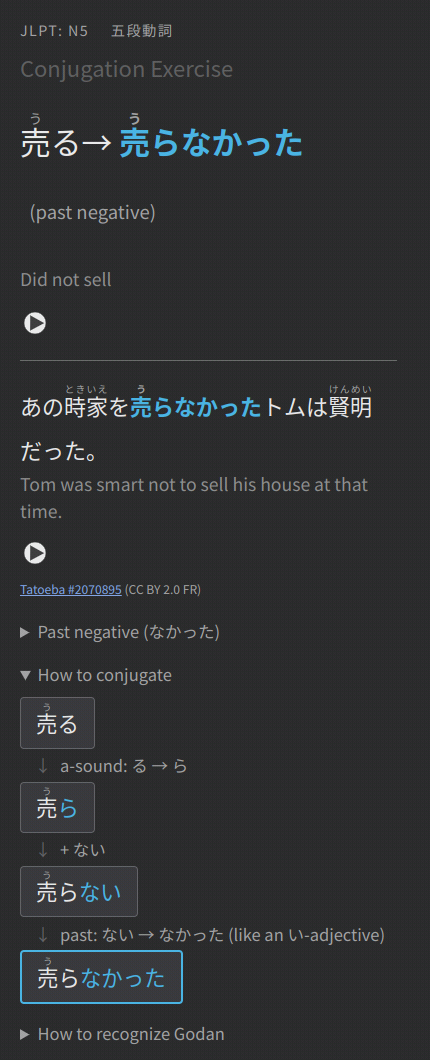
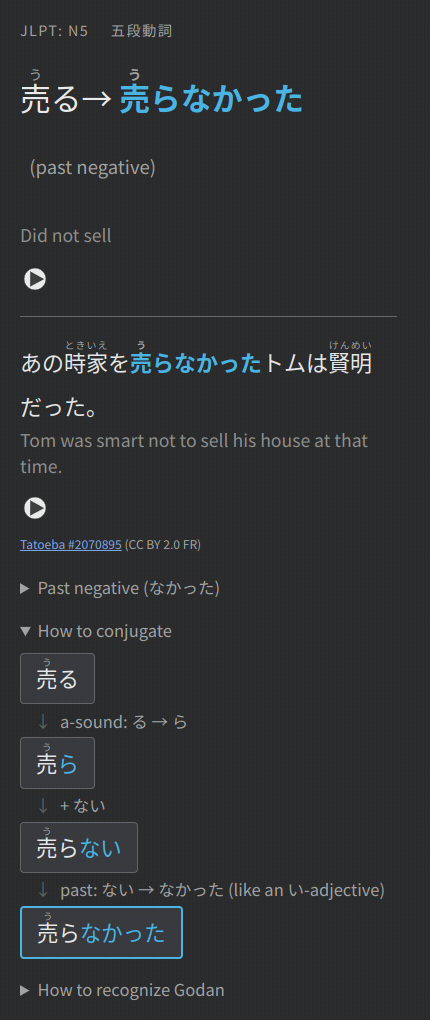
removed instruction field

Changed region(s): [[0.0302, 0.0, 0.907, 1.0], [0.0907, 0.0, 0.1209, 0.0304], [0.0302, 0.9422, 0.0605, 0.9725]]

diff --git a/templates/front.html b/templates/front.html
@@ -1,45 +1,45 @@
 <div class="header">
   <div class="jlpt">{{#JLPT}}JLPT: N{{JLPT}}{{/JLPT}}</div>
 </div>
-<div class="instruction">{{Instruction}}</div>
-<div class="sentence"><span id="sm" style="visibility:hidden">{{Sentence}}</span>{{#SentenceMod}}<span class="modifier">({{SentenceMod}})</span>{{/SentenceMod}}</div>
+<div class="sentence"><span id="sm" style="visibility:hidden">{{Sentence}}</span>{{#SentenceMod}}<span
+    class="modifier">({{SentenceMod}})</span>{{/SentenceMod}}</div>
 {{#Translation}}<div class="translation">{{Translation}}</div>{{/Translation}}
 
 <script>
-(function () {
-  // Front: every #answer# in the Sentence becomes an underlined blank as wide
-  // as the answer itself (the text is there but transparent, see style.css).
-  var SHOW = false;
-  var el = document.getElementById("sm");
-  if (!el) return;
+  (function () {
+    // Front: every #answer# in the Sentence becomes an underlined blank as wide
+    // as the answer itself (the text is there but transparent, see style.css).
+    var SHOW = false;
+    var el = document.getElementById("sm");
+    if (!el) return;
 
-  // The front renders the real answer too, just invisible, so both sides
-  // have the same widths and line breaks (a row of spaces wraps differently).
-  // A plain space before an opening # only separates furigana; drop it.
-  var src = el.innerHTML.replace(/ #(?=[一-鿿々〆])/g, "#");
-  var parts = src.split(/(<[^>]*>)/); // "#" inside tags (e.g. color="#333") is not a marker
-  var out = "", hidden = false, empty = true;
-  for (var i = 0; i < parts.length; i++) {
-    var p = parts[i];
-    if (i % 2) { out += p; continue; }
-    var segs = p.split("#");
-    for (var k = 0; k < segs.length; k++) {
-      if (k) {
-        if (hidden && empty && !SHOW) out += '<b class="target gap">　</b>';
-        hidden = !hidden;
-        empty = true;
+    // The front renders the real answer too, just invisible, so both sides
+    // have the same widths and line breaks (a row of spaces wraps differently).
+    // A plain space before an opening # only separates furigana; drop it.
+    var src = el.innerHTML.replace(/ #(?=[一-鿿々〆])/g, "#");
+    var parts = src.split(/(<[^>]*>)/); // "#" inside tags (e.g. color="#333") is not a marker
+    var out = "", hidden = false, empty = true;
+    for (var i = 0; i < parts.length; i++) {
+      var p = parts[i];
+      if (i % 2) { out += p; continue; }
+      var segs = p.split("#");
+      for (var k = 0; k < segs.length; k++) {
+        if (k) {
+          if (hidden && empty && !SHOW) out += '<b class="target gap">　</b>';
+          hidden = !hidden;
+          empty = true;
+        }
+        var s = segs[k];
+        if (!s) continue;
+        if (!hidden) out += s;
+        else { out += '<b class="target gap">' + s + "</b>"; empty = false; }
       }
-      var s = segs[k];
-      if (!s) continue;
-      if (!hidden) out += s;
-      else { out += '<b class="target gap">' + s + "</b>"; empty = false; }
     }
-  }
 
-  el.innerHTML = out.replace(
-    /\s?([一-鿿々〆]+)\[([^\]]+)\]/g,
-    "<ruby>$1<rt>$2</rt></ruby>"
-  );
-  el.style.visibility = "";
-})();
+    el.innerHTML = out.replace(
+      /\s?([一-鿿々〆]+)\[([^\]]+)\]/g,
+      "<ruby>$1<rt>$2</rt></ruby>"
+    );
+    el.style.visibility = "";
+  })();
 </script>

diff --git a/templates/back.html b/templates/back.html
@@ -2,7 +2,6 @@
   <div class="jlpt">{{#JLPT}}JLPT: N{{JLPT}}{{/JLPT}}</div>
   <div class="topic">{{#Topic}}{{Topic}}{{/Topic}}</div>
 </div>
-<div class="instruction">{{Instruction}}</div>
 <div class="sentence"><span id="sm">{{Sentence}}</span>{{#SentenceMod}}<span
     class="modifier">({{SentenceMod}})</span>{{/SentenceMod}}</div>
 {{#Translation}}<div class="translation">{{Translation}}</div>{{/Translation}}
@@ -15,8 +14,12 @@
   {{#ExampleSrc}}<small class="source">{{ExampleSrc}}</small>{{/ExampleSrc}}
 </div>{{/Example}}
 {{Explanation}}
-{{#Conjugation}}<details class="explanation"><summary>How to conjugate</summary>{{Conjugation}}</details>{{/Conjugation}}
-{{#Recognition}}<details class="explanation"><summary>How to recognize {{VerbType}}</summary>{{Recognition}}</details>{{/Recognition}}
+{{#Conjugation}}<details class="explanation">
+  <summary>How to conjugate</summary>{{Conjugation}}
+</details>{{/Conjugation}}
+{{#Recognition}}<details class="explanation">
+  <summary>How to recognize {{VerbType}}</summary>{{Recognition}}
+</details>{{/Recognition}}
 
 <script>
   (function () {

diff --git a/script/push_notes.py b/script/push_notes.py
@@ -46,13 +46,12 @@ ROOT = Path(__file__).resolve().parent.parent
 TEMPLATES = ROOT / "templates"
 EXAMPLES = ROOT / "data" / "examples.json"
 
-FIELDS = ["Sentence", "SentenceMod", "Translation", "Audio", "JLPT", "Instruction", "Topic",
+FIELDS = ["Sentence", "SentenceMod", "Translation", "Audio", "JLPT", "Topic",
           "Example", "ExampleTranslation", "ExampleAudio", "ExampleSrc", "VerbType", "Conjugation", "Recognition", "Explanation", "Key"]
 # Fields this script owns; Audio and ExampleAudio belong to add_audio.py,
 # Explanation to push_explanations.py.
 OWNED = [f for f in FIELDS if f not in ("Audio", "ExampleAudio", "Explanation")]
 
-INSTRUCTION = '<span style="color: rgb(102, 102, 102);">Conjugation Exercise</span>'
 TOPIC = {"v1": "一段動詞", "vk": "不規則動詞 (来る)", "vs-i": "不規則動詞 (する)",
          "v5k-s": "五段動詞 (行く)", "v5r-i": "五段動詞 (ある)", "v5u-s": "五段動詞 (問う)",
          "v5aru": "五段動詞 (いらっしゃる)", "vs-s": "五段動詞 (〜する like 〜す)"}
@@ -126,7 +125,6 @@ def build():
                 "SentenceMod": f.mod,
                 "Translation": v.english(key),
                 "JLPT": str(level),
-                "Instruction": INSTRUCTION,
                 "Topic": TOPIC.get(v.cls, "五段動詞" if v.cls.startswith("v5") else v.cls),
                 "VerbType": verb_type(v.cls),
                 "Conjugation": steps_html(v, key),

diff --git a/README.md b/README.md
@@ -68,11 +68,13 @@ Japanese verbs fall into three groups, and the group decides how a verb conjugat
 
 | Source | What it gives | License |
 |--------|---------------|---------|
-| [open-anki-jlpt-decks](https://github.com/jamsinclair/open-anki-jlpt-decks) (based on [tanos.co.uk](http://www.tanos.co.uk/jlpt/)) | JLPT level, spelling, reading, English gloss | see the repository |
+| [open-anki-jlpt-decks](https://github.com/jamsinclair/open-anki-jlpt-decks), via [jlpt-anki-decks](https://github.com/chyyran/jlpt-anki-decks), from the lists by Jonathan Waller at tanos.co.uk | JLPT level, spelling, reading, English gloss | MIT; WTFPL; CC BY (tanos, see below) |
 | [JMdict](https://www.edrdg.org/jmdict/j_jmdict.html) via [jmdict-simplified](https://github.com/scriptin/jmdict-simplified) | verb class (る/う/irregular), transitivity | CC BY-SA 4.0 |
 | [Tatoeba](https://tatoeba.org) | example sentences, translations, recordings | CC BY 2.0 FR (recordings: per contributor) |
 
 Each example sentence links back to its Tatoeba page; recorded audio is credited with its author and license on the card.
+
+The JLPT word lists go back to Jonathan Waller's tanos.co.uk, the long-standing reference for JLPT vocabulary. The site is no longer online; to the best of our knowledge its lists were shared under a Creative Commons Attribution (CC BY) license, and all credit for them goes to their author.
 
 ### Audio
 
